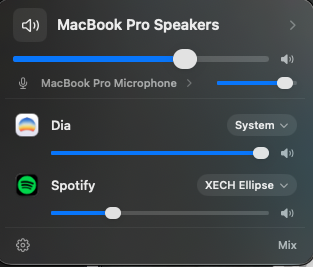
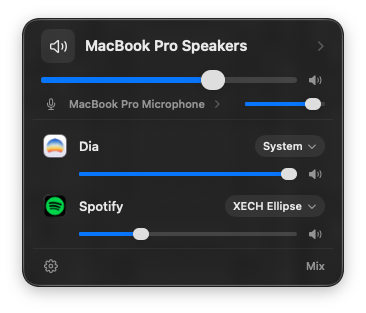
Use a cleaner panel screenshot
Wider crop that keeps the window shadow and the full rounded corners, where the
previous one clipped them. Sized so the 320pt panel renders at its true size.

Claude-Session: https://claude.ai/code/session_01GvGT1X3JcGFEaBFYx876L1

diff --git a/README.md b/README.md
@@ -8,7 +8,7 @@ macOS lets you pick one output device for the entire system. Mix gives you one
 per app, from a Control Center style panel in the menu bar.
 
 <p align="center">
-  <img src="docs/popover.png" width="320"
+  <img src="docs/popover.png" width="366"
        alt="The Mix panel. MacBook Pro Speakers is the system output with a full-width volume slider, the MacBook Pro Microphone sits beneath it with its own smaller slider, and below a divider, Dia plays through System while Spotify plays through a XECH Ellipse, each with its own volume slider and mute button.">
 </p>
 
